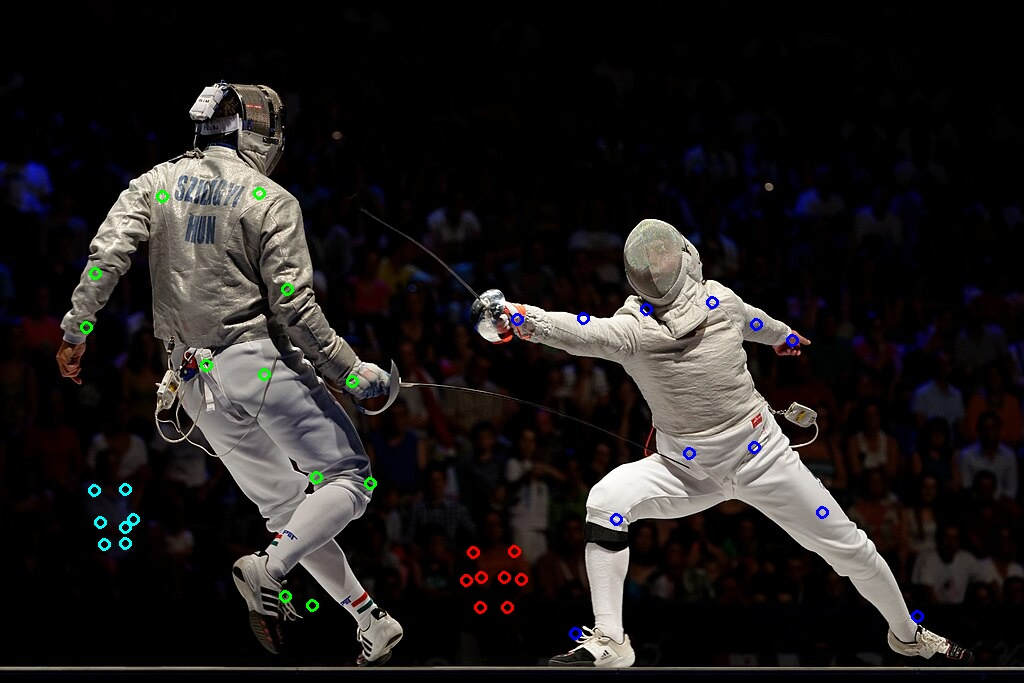
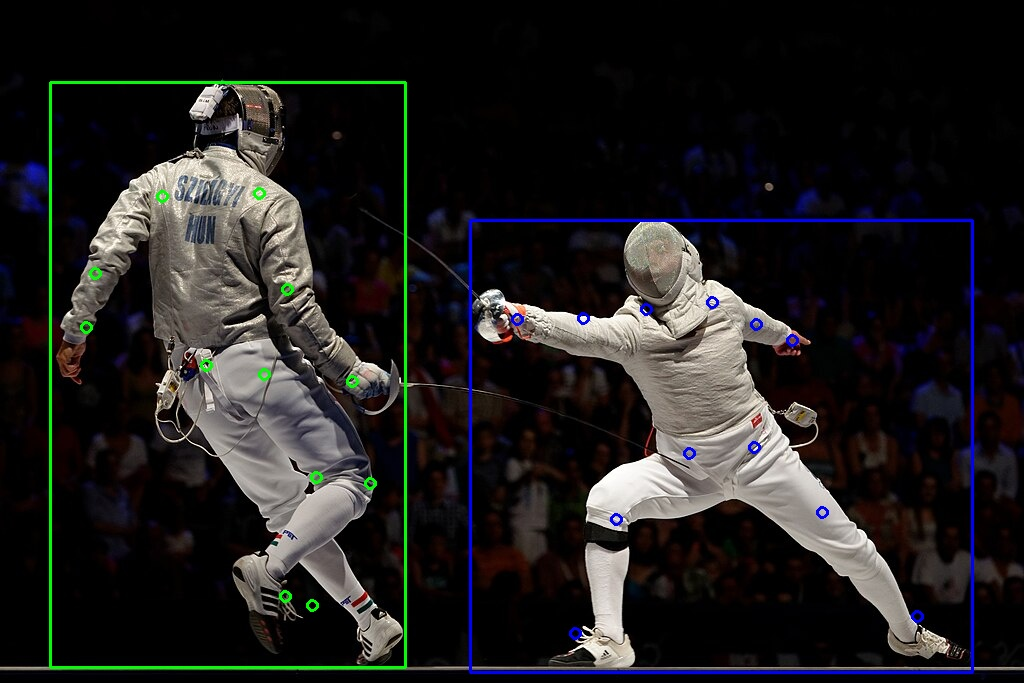
Remove detections with small bounding boxes.
Resolves #8

Changed region(s): [[0.4375, 0.3075, 0.9688, 1.0], [0.0312, 0.0922, 0.4062, 0.9839]]

diff --git a/yolo/annotate_pose.py b/yolo/annotate_pose.py
@@ -22,6 +22,8 @@ RIGHT_KNEE = 14
 LEFT_ANKLE = 15
 RIGHT_ANKLE = 16
 
+min_area = 15000
+
 def annotate_pose(image, keypoints, color):
     """
     Add key points to the image for visualization.
@@ -34,6 +36,20 @@ def annotate_pose(image, keypoints, color):
         x, y = keypoints[i]
         if i> 4 and x > 0 and y > 0:
             cv2.circle(image, (int(x), int(y)), radius, color, thickness)
+
+def annotate_bounding_box(image, box, color):
+    """
+    Draw bounding boxes around detected persons.
+    """
+    x1, y1, x2, y2 = map(int, box)
+    cv2.rectangle(image, (x1, y1), (x2, y2), color, 2)
+
+def area(box):
+    """
+    Calculate the area of a bounding box.
+    """
+    x1, y1, x2, y2 = box
+    return (x2 - x1) * (y2 - y1)
 
 colors = [
     (255, 0, 0),   
@@ -63,9 +79,19 @@ for result in results:
     xy = result.keypoints.xy  # x and y coordinates
     xyn = result.keypoints.xyn  # normalized
     kpts = result.keypoints.data  # x, y, visibility (if available)
+    boxes = result.boxes.xyxy  # bounding boxes 
+    
     for i, person in enumerate(xy):
         print(f"Processing person {i + 1}")
-        annotate_pose(image, person, colors[i % len(colors)])
+        box = boxes[i] if i < len(boxes) else [0, 0, image.shape[1], image.shape[0]]
+        area_box = area(box)
+        if area_box < min_area:
+            print(f"Skipping person {i + 1} due to small bounding box area: {area_box}")
+            continue
+        else:
+            print(f"Annotating person {i + 1} with bounding box area: {area_box}")
+            annotate_pose(image, person, colors[i % len(colors)])
+            annotate_bounding_box(image, box, colors[i % len(colors)])
 
 # Save the annotated image
 cv2.imwrite("annotated_pose.jpg", image)
